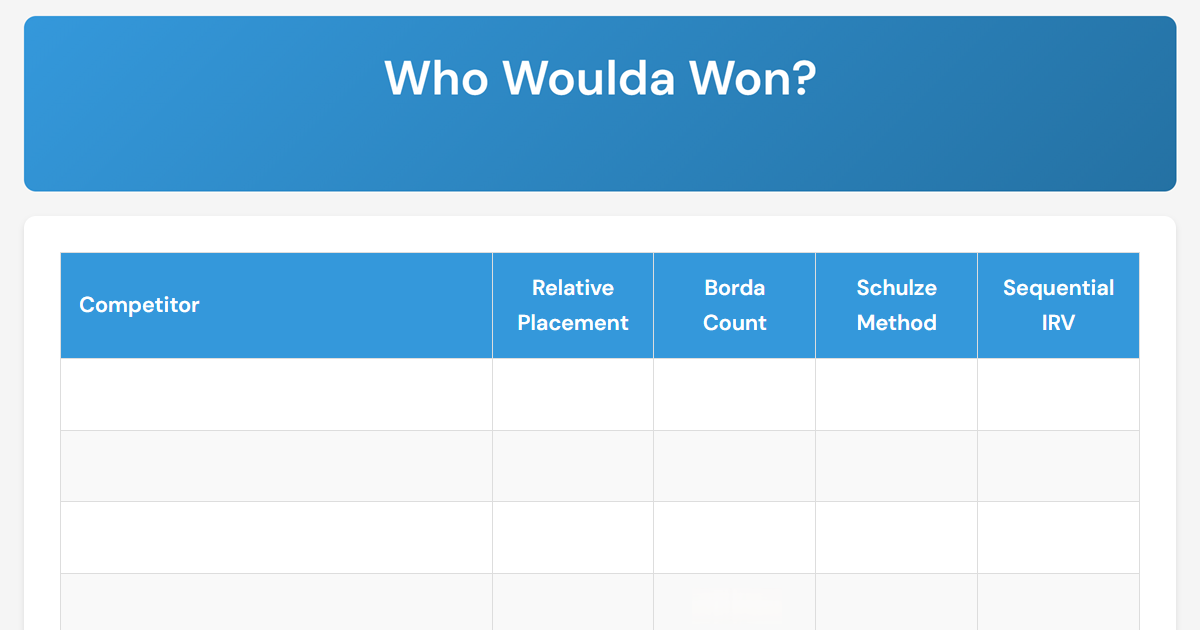
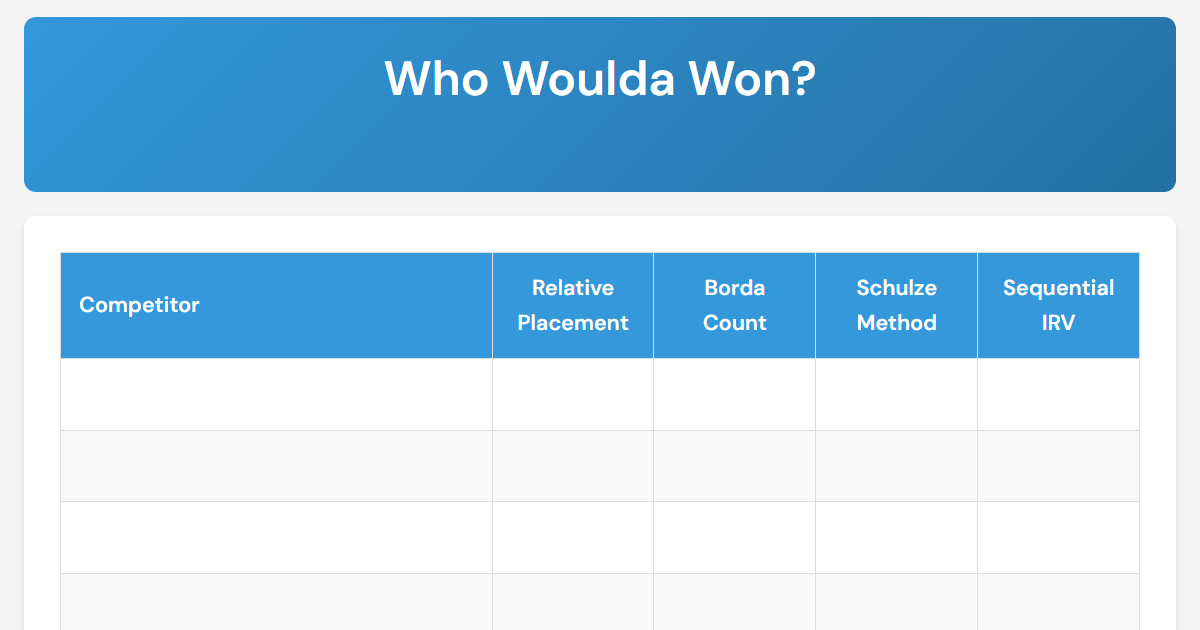
Update og image template
Generate the image cleanly from the browser again

Changed region(s): [[0.3083, 0.0905, 0.6783, 0.1508]]

diff --git a/scripts/measure_template.py b/scripts/measure_template.py
@@ -7,11 +7,15 @@ Prints column divider x-positions, row divider y-positions, and other layout
 boundaries by scanning for #ddd border pixels in the template image.
 """
 
+import sys
 from pathlib import Path
 
 from PIL import Image
 
-TEMPLATE_PATH = Path(__file__).parent.parent / "assets" / "og-image-template.png"
+if len(sys.argv) > 1:
+    TEMPLATE_PATH = Path(sys.argv[1])
+else:
+    TEMPLATE_PATH = Path(__file__).parent.parent / "assets" / "og-image-template.png"
 BORDER_COLOR = (221, 221, 221)  # #ddd
 TOLERANCE = 5
 
